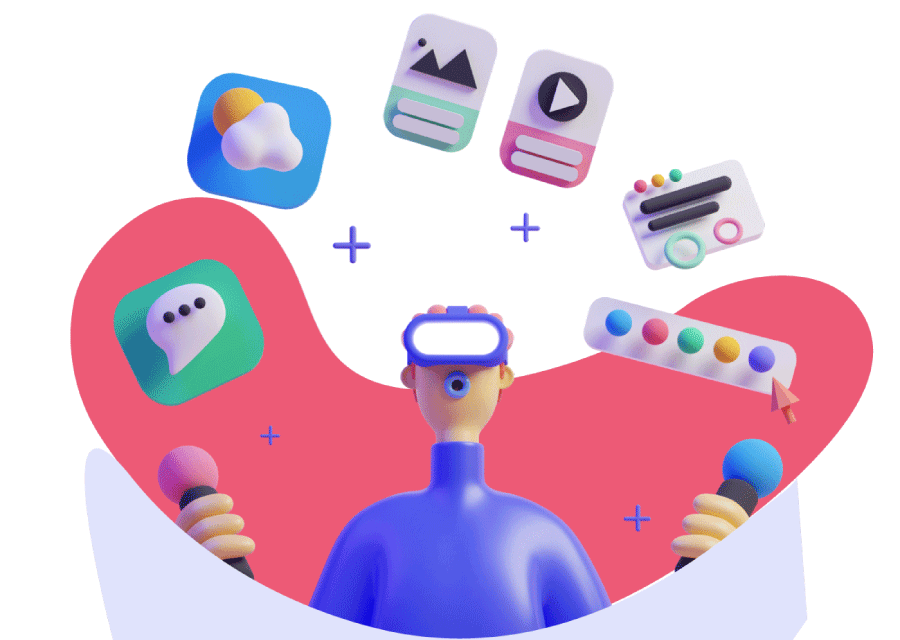
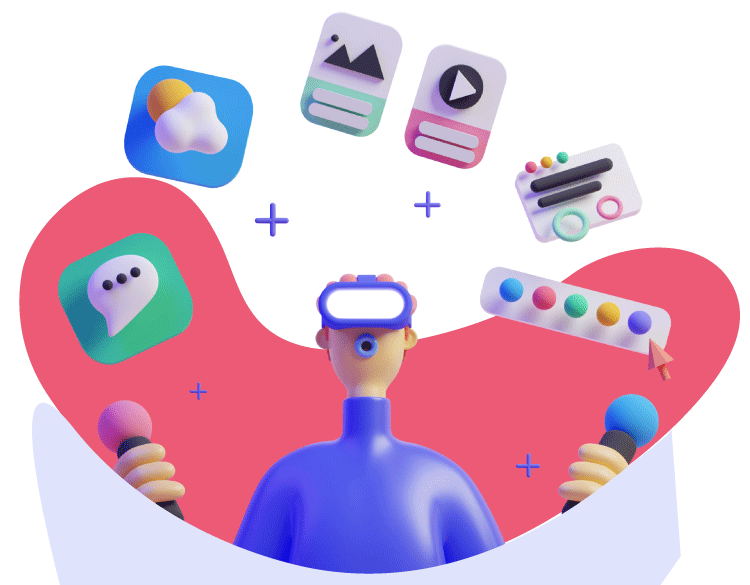
img changed 2

diff --git a/index.html b/index.html
@@ -105,8 +105,8 @@
           <img
             src="assets/mainIllustrationpng.png"
             alt="creative"
-            width="900"
-            height="640"
+            width="750"
+            height="585"
           />
         </div>
       </div>
@@ -220,8 +220,8 @@
           src="assets/ship2png.png"
           alt="fireship"
           loading="lazy"
-          width="750"
-          height="801"
+          width="550"
+          height="602"
         />
       </div>
       <div class="funtionality__text">
